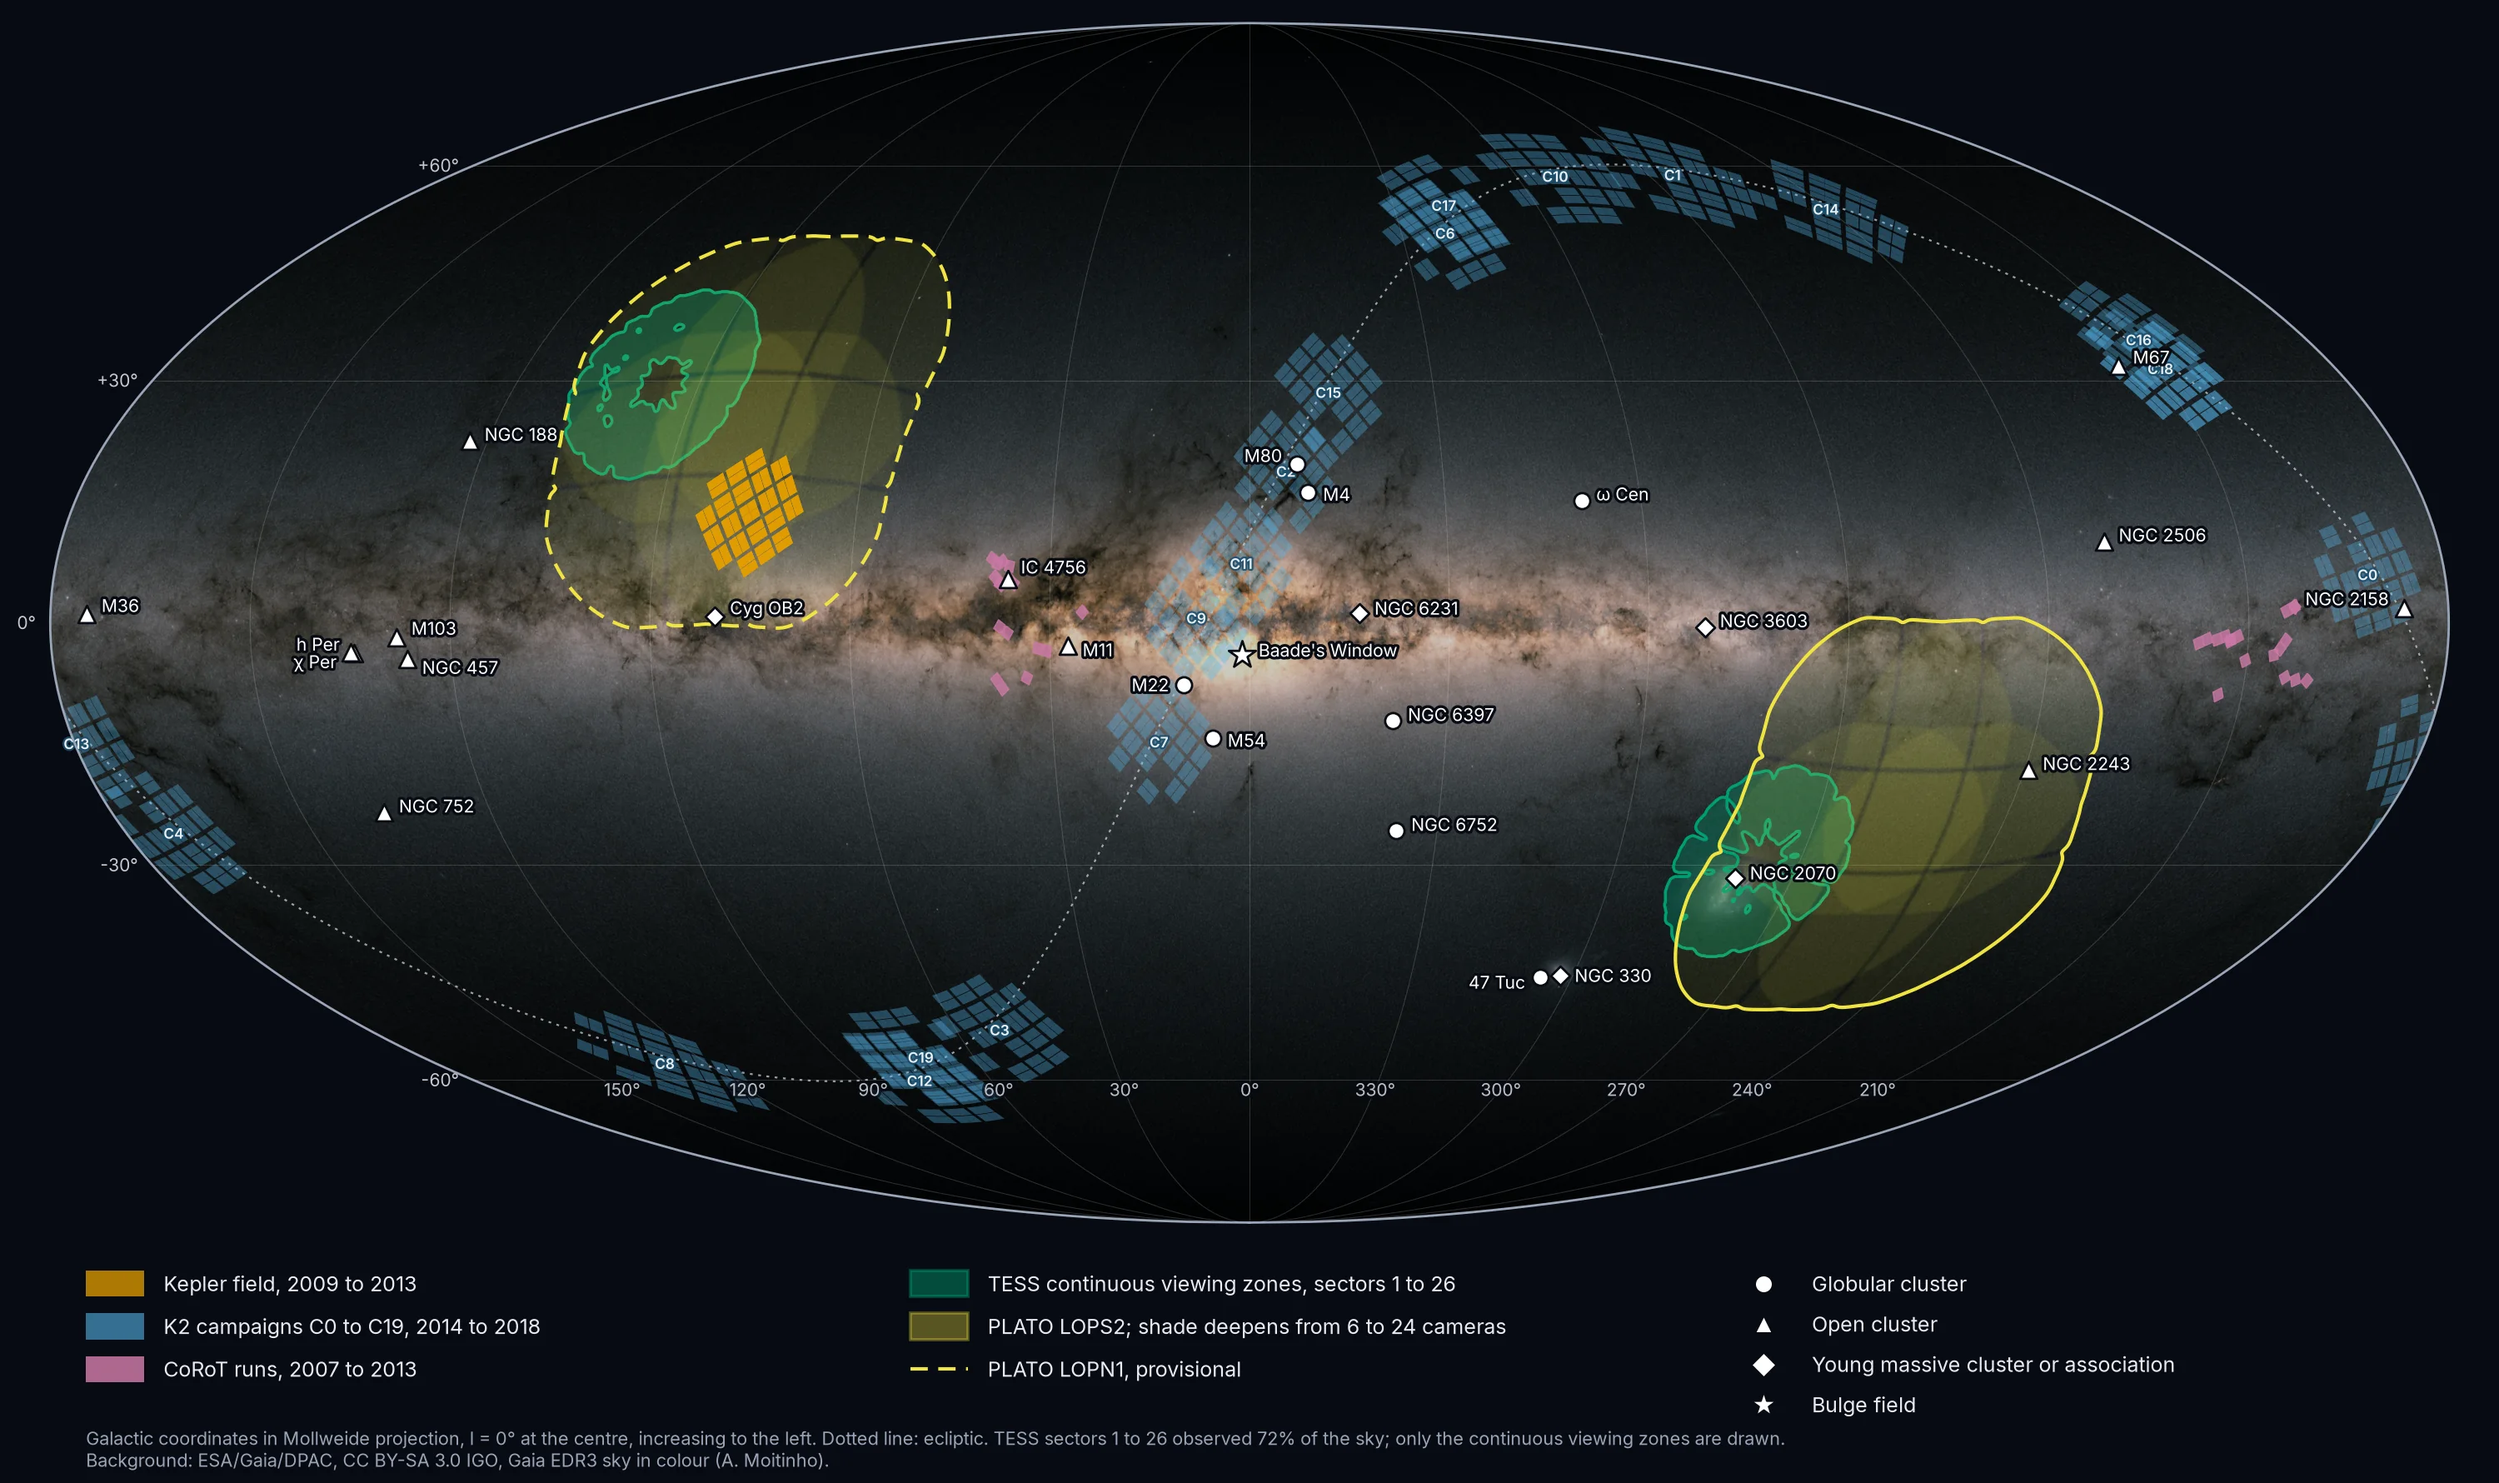
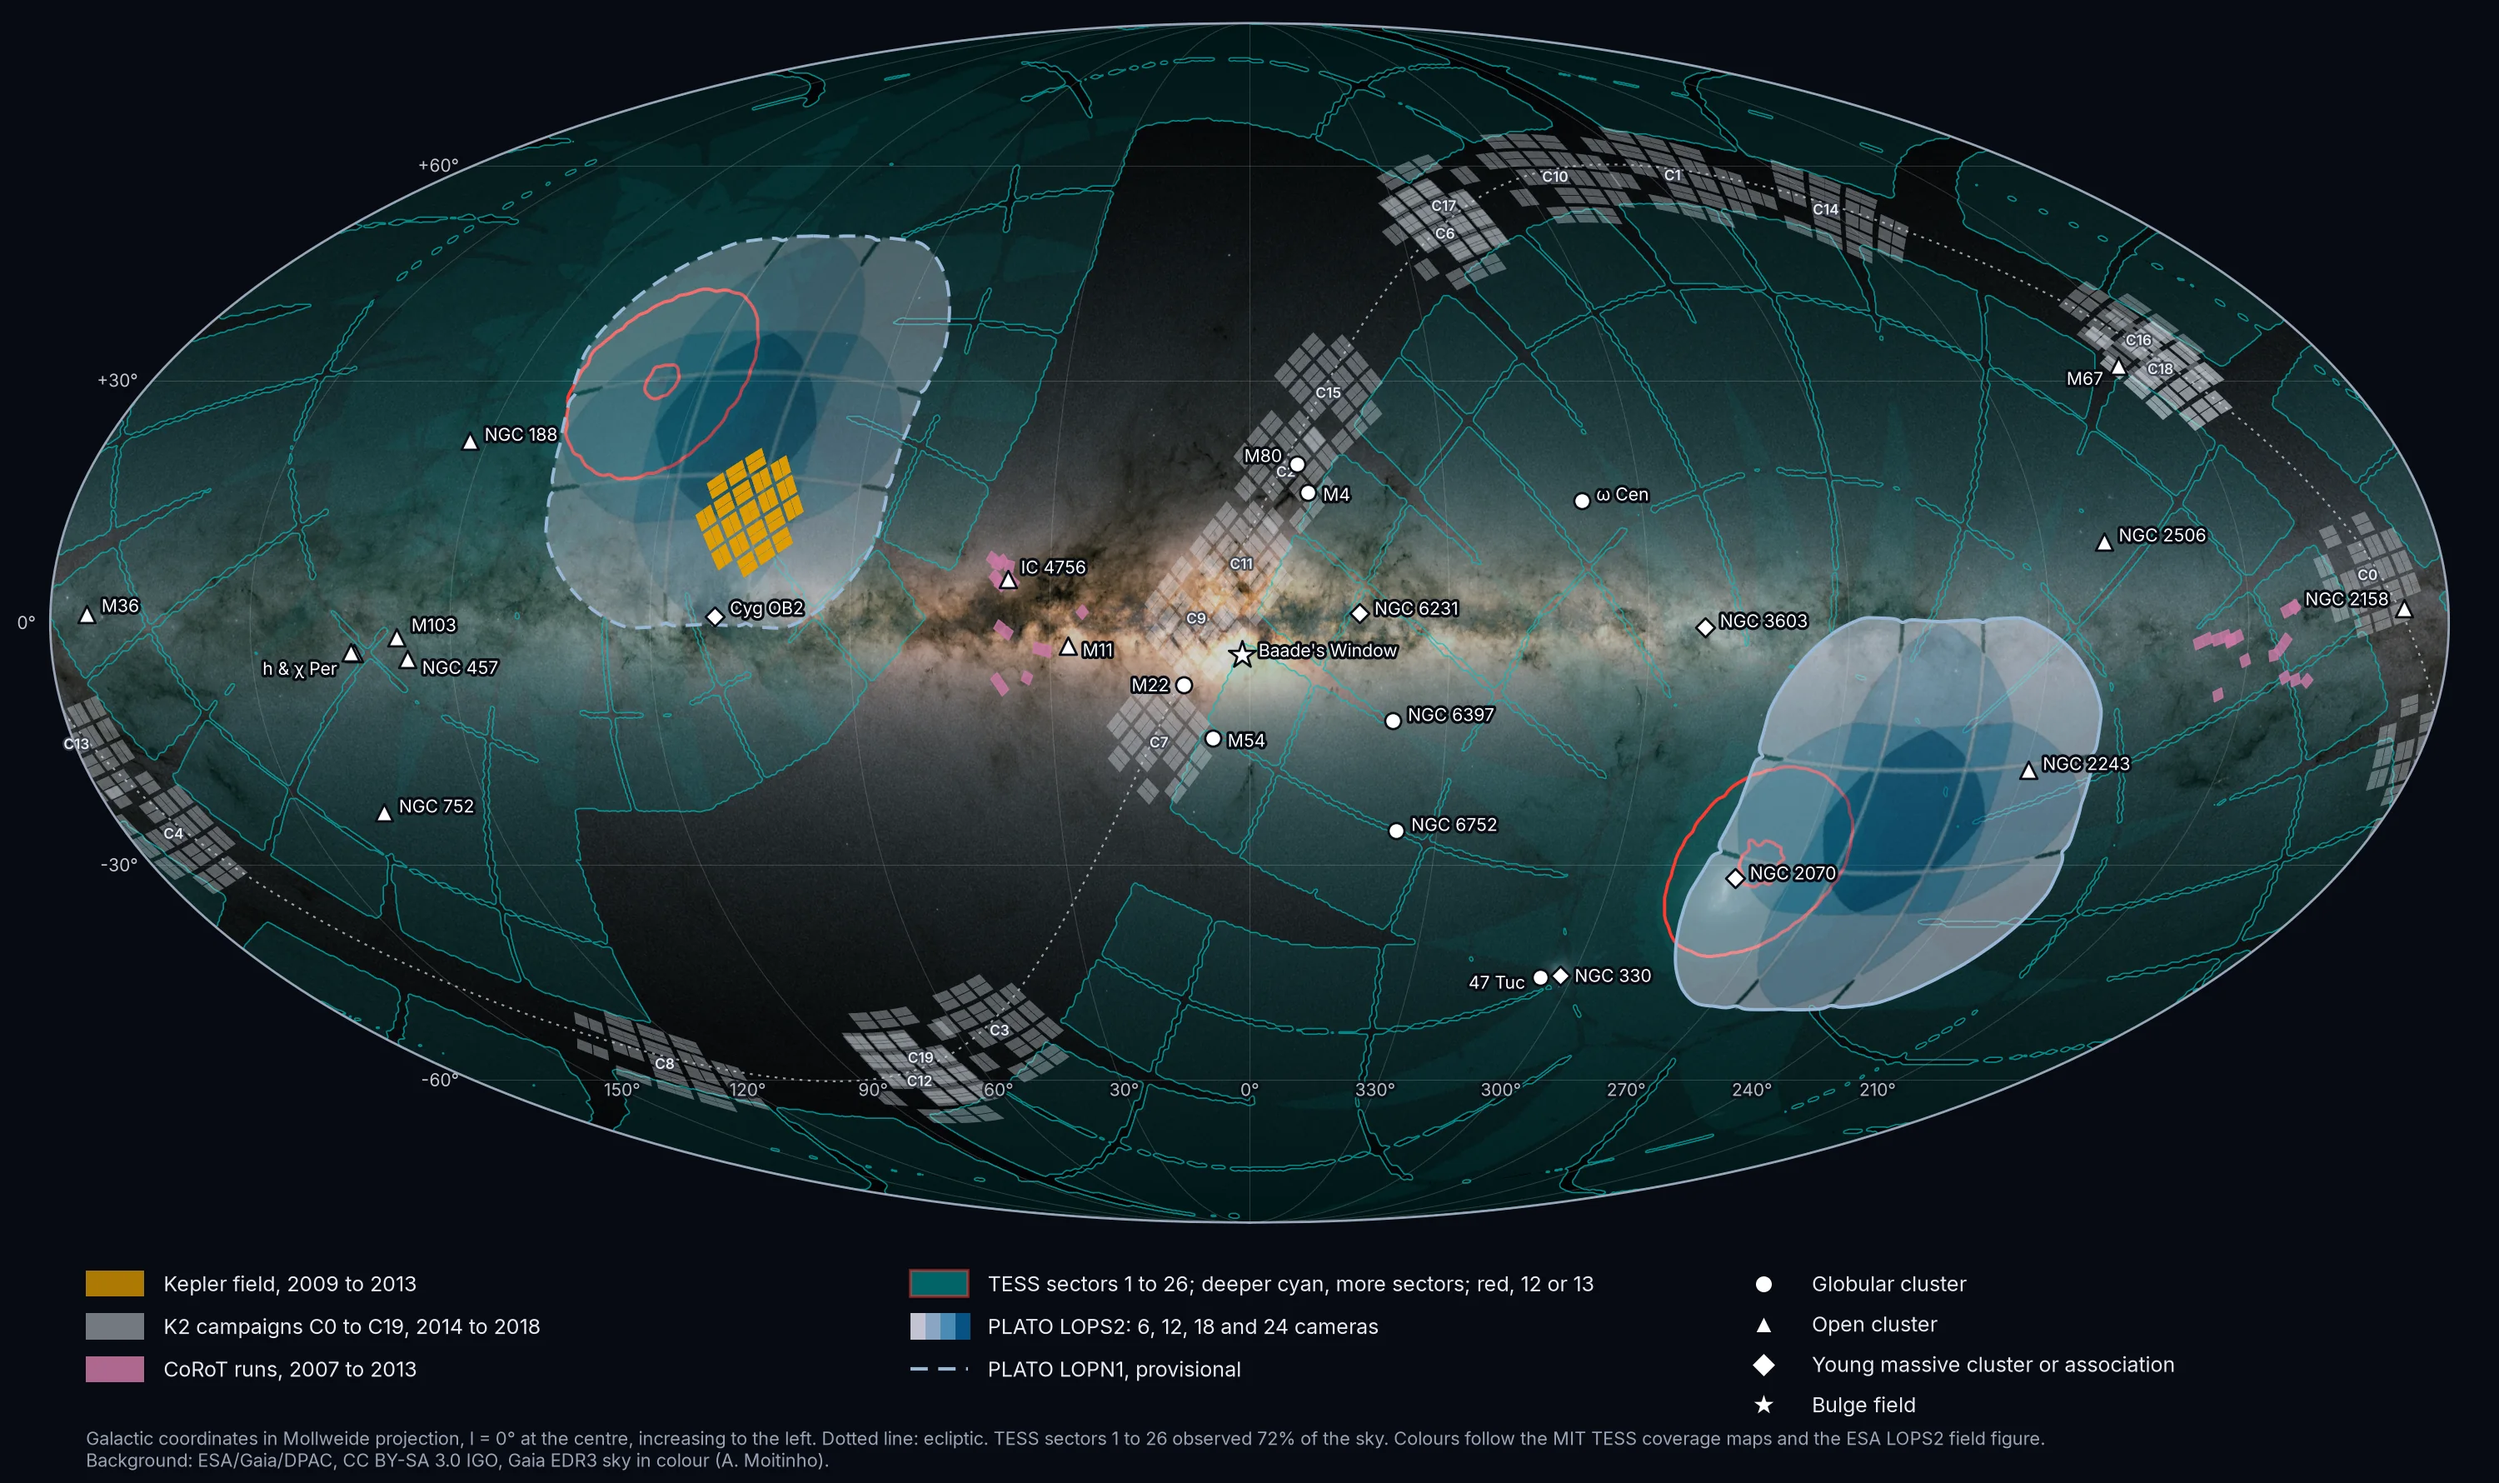
HAYDNsim sky map, version 2: TESS sectors 1 to 26 shaded with the continuous viewing zones in red, PLATO LOPS2 in the ESA tier colours, K2 in silver, the two label collisions fixed

diff --git a/_pages/software/haydnsim.md b/_pages/software/haydnsim.md
@@ -35,7 +35,7 @@ extra_css: [/assets/css/haydn.css]
 
 <figure class="panel guide-wide">
   <a href="{{ '/assets/img/haydnsim/candidate-fields-sky-3000.webp' | relative_url }}"><img src="{{ '/assets/img/haydnsim/candidate-fields-sky.webp' | relative_url }}" alt="The sky in Galactic coordinates over the Gaia colour map, with the footprints of Kepler, the K2 campaigns, the CoRoT runs, the TESS continuous viewing zones and the PLATO fields, and the candidate HAYDN globular clusters, open clusters, young massive clusters and the bulge field marked and named." loading="lazy" decoding="async" width="1600" height="949"></a>
-  <figcaption class="credit">The candidate fields on the sky, in Galactic coordinates (Mollweide, l = 0 at the centre and increasing to the left), with the fields of earlier and coming missions: <i>Kepler</i> and the K2 campaigns C0 to C19 from K2fov, the CoRoT runs from the mission archive (VizieR B/corot), the <i>TESS</i> continuous viewing zones of sectors 1 to 26 from tess-point, the <i>PLATO</i> LOPS2 field from its published camera-count map (Nascimbeni et al. 2025), and LOPN1, provisional, after Nascimbeni et al. 2022. Globular clusters from Vasiliev and Baumgardt 2021, open clusters from Hunt and Reffert 2024, the rest from SIMBAD. Built with HAYDNsim's tooling; the larger image opens on click. Background: ESA/Gaia/DPAC, CC BY-SA 3.0 IGO (acknowledgement A. Moitinho); this figure is shared under the same licence.</figcaption>
+  <figcaption class="credit">The candidate fields on the sky, in Galactic coordinates (Mollweide, l = 0 at the centre and increasing to the left), with the fields of earlier and coming missions: <i>Kepler</i> and the K2 campaigns C0 to C19 from K2fov, the CoRoT runs from the mission archive (VizieR B/corot), <i>TESS</i> sectors 1 to 26 from tess-point, shaded by number of sectors with the continuous viewing zones outlined in red (colours after the MIT <i>TESS</i> coverage maps), and the <i>PLATO</i> LOPS2 field from its published camera-count map (Nascimbeni et al. 2025) in the 6, 12, 18 and 24-camera tiers of the ESA LOPS2 figure, with LOPN1, provisional, after Nascimbeni et al. 2022. The K2 footprints are the <i>Kepler</i> detector with its failed modules missing: modules 3 and 7 were lost before K2 began and module 4 during Campaign 10. Globular clusters from Vasiliev and Baumgardt 2021, open clusters from Hunt and Reffert 2024, the rest from SIMBAD. Built with HAYDNsim's tooling; the larger image opens on click. Background: ESA/Gaia/DPAC, CC BY-SA 3.0 IGO (acknowledgement A. Moitinho); this figure is shared under the same licence.</figcaption>
 </figure>
 
 <section class="section" aria-labelledby="where">
